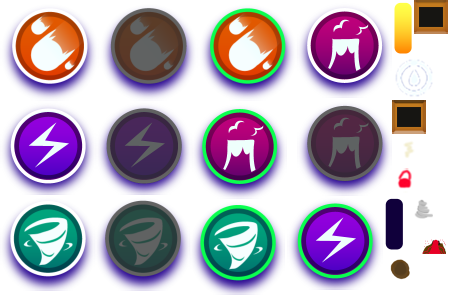
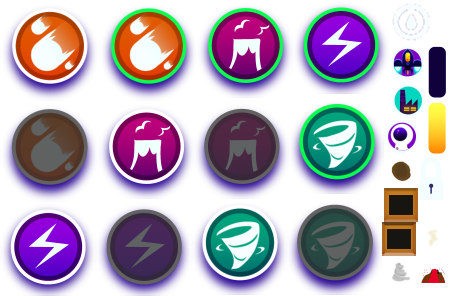
Quests design

diff --git a/assets/ui/ui.css b/assets/ui/ui.css
@@ -1,7 +1,7 @@
 /* -----------------------------------------------------
    created with https://www.codeandweb.com/texturepacker 
    -----------------------------------------------------
-   $TexturePacker:SmartUpdate:bd4bb240ac802a348778401167f7584f:39484c388928774a782cf42835b8f534:4c7ccf045e54e36629c6cbec5cb72956$
+   $TexturePacker:SmartUpdate:64167d8ff2a5286931012eed3dfed14b:884c3b2ed871b63c50185334aa4fb7ed:4c7ccf045e54e36629c6cbec5cb72956$
    -----------------------------------------------------
 
    usage: <span class="{-spritename-} sprite"></span>
@@ -12,25 +12,28 @@
 
 .sprite {display:inline-block; overflow:hidden; background-repeat: no-repeat;background-image:url(ui.png);}
 
-.asteroid_icon {width:32px; height:32px; background-position: -384px -253px}
+.asteroid_icon {width:32px; height:32px; background-position: -385px -155px}
 .button_asteroid {width:97px; height:99px; background-position: -1px -1px}
-.button_asteroid_disabled {width:97px; height:99px; background-position: -100px -1px}
-.button_asteroid_selected {width:97px; height:99px; background-position: -199px -1px}
-.button_lightning {width:94px; height:92px; background-position: -1px -102px}
-.button_lightning_disabled {width:94px; height:92px; background-position: -97px -102px}
-.button_lightning_selected {width:94px; height:92px; background-position: -288px -197px}
-.button_off {width:32px; height:32px; background-position: -415px -1px}
-.button_on {width:32px; height:32px; background-position: -393px -101px}
-.button_tornado {width:93px; height:94px; background-position: -1px -196px}
-.button_tornado_disabled {width:93px; height:94px; background-position: -96px -196px}
-.button_tornado_selected {width:93px; height:94px; background-position: -191px -200px}
-.button_volcano {width:93px; height:96px; background-position: -298px -1px}
-.button_volcano_disabled {width:93px; height:96px; background-position: -298px -99px}
-.button_volcano_selected {width:93px; height:96px; background-position: -193px -102px}
-.lightning_icon {width:32px; height:32px; background-position: -393px -135px}
-.load_bar {width:20px; height:54px; background-position: -384px -197px}
-.load_bar_fill {width:20px; height:54px; background-position: -393px -1px}
-.lock {width:23px; height:23px; background-position: -393px -169px}
-.mine_corp_icon {width:42px; height:42px; background-position: -393px -57px}
-.tornado_icon {width:32px; height:32px; background-position: -406px -194px}
-.volcano_icon {width:32px; height:32px; background-position: -418px -228px}
+.button_asteroid_disabled {width:97px; height:99px; background-position: -1px -102px}
+.button_asteroid_selected {width:97px; height:99px; background-position: -100px -1px}
+.button_lightning {width:94px; height:92px; background-position: -1px -203px}
+.button_lightning_disabled {width:94px; height:92px; background-position: -97px -203px}
+.button_lightning_selected {width:94px; height:92px; background-position: -294px -1px}
+.button_off {width:32px; height:32px; background-position: -385px -189px}
+.button_on {width:32px; height:32px; background-position: -383px -223px}
+.button_tornado {width:93px; height:94px; background-position: -193px -200px}
+.button_tornado_disabled {width:93px; height:94px; background-position: -288px -200px}
+.button_tornado_selected {width:93px; height:94px; background-position: -290px -99px}
+.button_volcano {width:93px; height:96px; background-position: -100px -102px}
+.button_volcano_disabled {width:93px; height:96px; background-position: -195px -102px}
+.button_volcano_selected {width:93px; height:96px; background-position: -199px -1px}
+.lightning_icon {width:32px; height:32px; background-position: -417px -223px}
+.load_bar {width:20px; height:54px; background-position: -427px -45px}
+.load_bar_fill {width:20px; height:54px; background-position: -427px -101px}
+.lock {width:23px; height:42px; background-position: -419px -157px}
+.mine_corp_icon {width:42px; height:42px; background-position: -390px -1px}
+.mission_1 {width:33px; height:34px; background-position: -385px -119px}
+.mission_2 {width:35px; height:36px; background-position: -390px -45px}
+.mission_3 {width:35px; height:34px; background-position: -390px -83px}
+.tornado_icon {width:32px; height:32px; background-position: -383px -257px}
+.volcano_icon {width:32px; height:32px; background-position: -417px -257px}

diff --git a/index.html b/index.html
@@ -45,6 +45,9 @@
                 </div>
                 <div class="right">
                     <div class="button sprite button_tornado" data-id="tornado"></div>
+                    <div class="sprite lock"></div>
+                    <div class="quest">Kill 40 persons<br>to unlock<br>twister</div>
+                    <div class="mission_icon sprite mission_1"></div>
                 </div>
             </div>
             <div class="row volcano">
@@ -56,6 +59,9 @@
                 </div>
                 <div class="right">
                     <div class="button sprite button_volcano" data-id="volcano"></div>
+                    <div class="sprite lock"></div>
+                    <div class="quest">Destroy 20<br>miners to<br>unlock<br>volcano</div>
+                    <div class="mission_icon sprite mission_2"></div>
                 </div>
             </div>
             <div class="row asteroid">
@@ -67,6 +73,9 @@
                 </div>
                 <div class="right">
                     <div class="button sprite button_asteroid" data-id="asteroid"></div>
+                    <div class="sprite lock"></div>
+                    <div class="quest">Destroy 5 factories<br>to unlock<br>asteroid</div>
+                    <div class="mission_icon sprite mission_3"></div>
                 </div>
             </div>
         </div>

diff --git a/src/index.html b/src/index.html
@@ -45,6 +45,9 @@
                 </div>
                 <div class="right">
                     <div class="button sprite button_tornado" data-id="tornado"></div>
+                    <div class="sprite lock"></div>
+                    <div class="quest">Kill 40 persons<br>to unlock<br>twister</div>
+                    <div class="mission_icon sprite mission_1"></div>
                 </div>
             </div>
             <div class="row volcano">
@@ -56,6 +59,9 @@
                 </div>
                 <div class="right">
                     <div class="button sprite button_volcano" data-id="volcano"></div>
+                    <div class="sprite lock"></div>
+                    <div class="quest">Destroy 20<br>miners to<br>unlock<br>volcano</div>
+                    <div class="mission_icon sprite mission_2"></div>
                 </div>
             </div>
             <div class="row asteroid">
@@ -67,6 +73,9 @@
                 </div>
                 <div class="right">
                     <div class="button sprite button_asteroid" data-id="asteroid"></div>
+                    <div class="sprite lock"></div>
+                    <div class="quest">Destroy 5 factories<br>to unlock<br>asteroid</div>
+                    <div class="mission_icon sprite mission_3"></div>
                 </div>
             </div>
         </div>

diff --git a/assets/css/style.css b/assets/css/style.css
@@ -103,8 +103,7 @@ body {
 
 .attackBar .lock {
     position: absolute;
-    margin-top: 10px;
-    margin-left: 10px;
+    transform: translate(53px, -53px);
 }
 
 .attack@font-face {
@@ -173,12 +172,6 @@ body {
     pointer-events: all;
 }
 
-.attackBar .lock {
-    position: absolute;
-    margin-top: 10px;
-    margin-left: 10px;
-}
-
 .attackBar .button {
     cursor: pointer;
     display: block;
@@ -236,4 +229,20 @@ body {
     height: 100%;
     background: linear-gradient(#ff8429, #ffff67);
     border-radius: 5px;
+}
+
+.attackBar .mission_icon {
+    position: absolute;
+    transform: translate(118px, -17px);
+}
+
+.attackBar .mission_icon.mission_3 {
+    transform: translate(123px, -17px);
+}
+
+.attackBar .quest {
+    position: absolute;
+    color: white;
+    transform: translate(80px, -29px);
+    font-size: 11px;
 }

diff --git a/src/core/AttackManager.js b/src/core/AttackManager.js
@@ -37,9 +37,9 @@ export default class AttackManager {
 
         this.locks = {};
         this.locks[Attacks.TYPES.LIGHTNING] = false;
-        this.locks[Attacks.TYPES.TORNADO] = false; // true
-        this.locks[Attacks.TYPES.VOLCANO] = false; // true
-        this.locks[Attacks.TYPES.ASTEROID] = false; // true
+        this.locks[Attacks.TYPES.TORNADO] = true; // true
+        this.locks[Attacks.TYPES.VOLCANO] = true; // true
+        this.locks[Attacks.TYPES.ASTEROID] = true; // true
 
         this.cooldowns = {};
         this.cooldowns[Attacks.TYPES.ASTEROID] = false;

diff --git a/src/ui/AttackBarUI.js b/src/ui/AttackBarUI.js
@@ -35,7 +35,6 @@ export default class AttackBarUI {
         this.scene.events.on(Events.UnlockedNewAttack, this.redraw, this);
 
         this.scene.input.keyboard.on('keydown', function (event) {
-            console.log(event);
             if (event.key === 'q' || event.key === '1') {
                 self.switchTo(Attacks.TYPES.LIGHTNING);
             }
